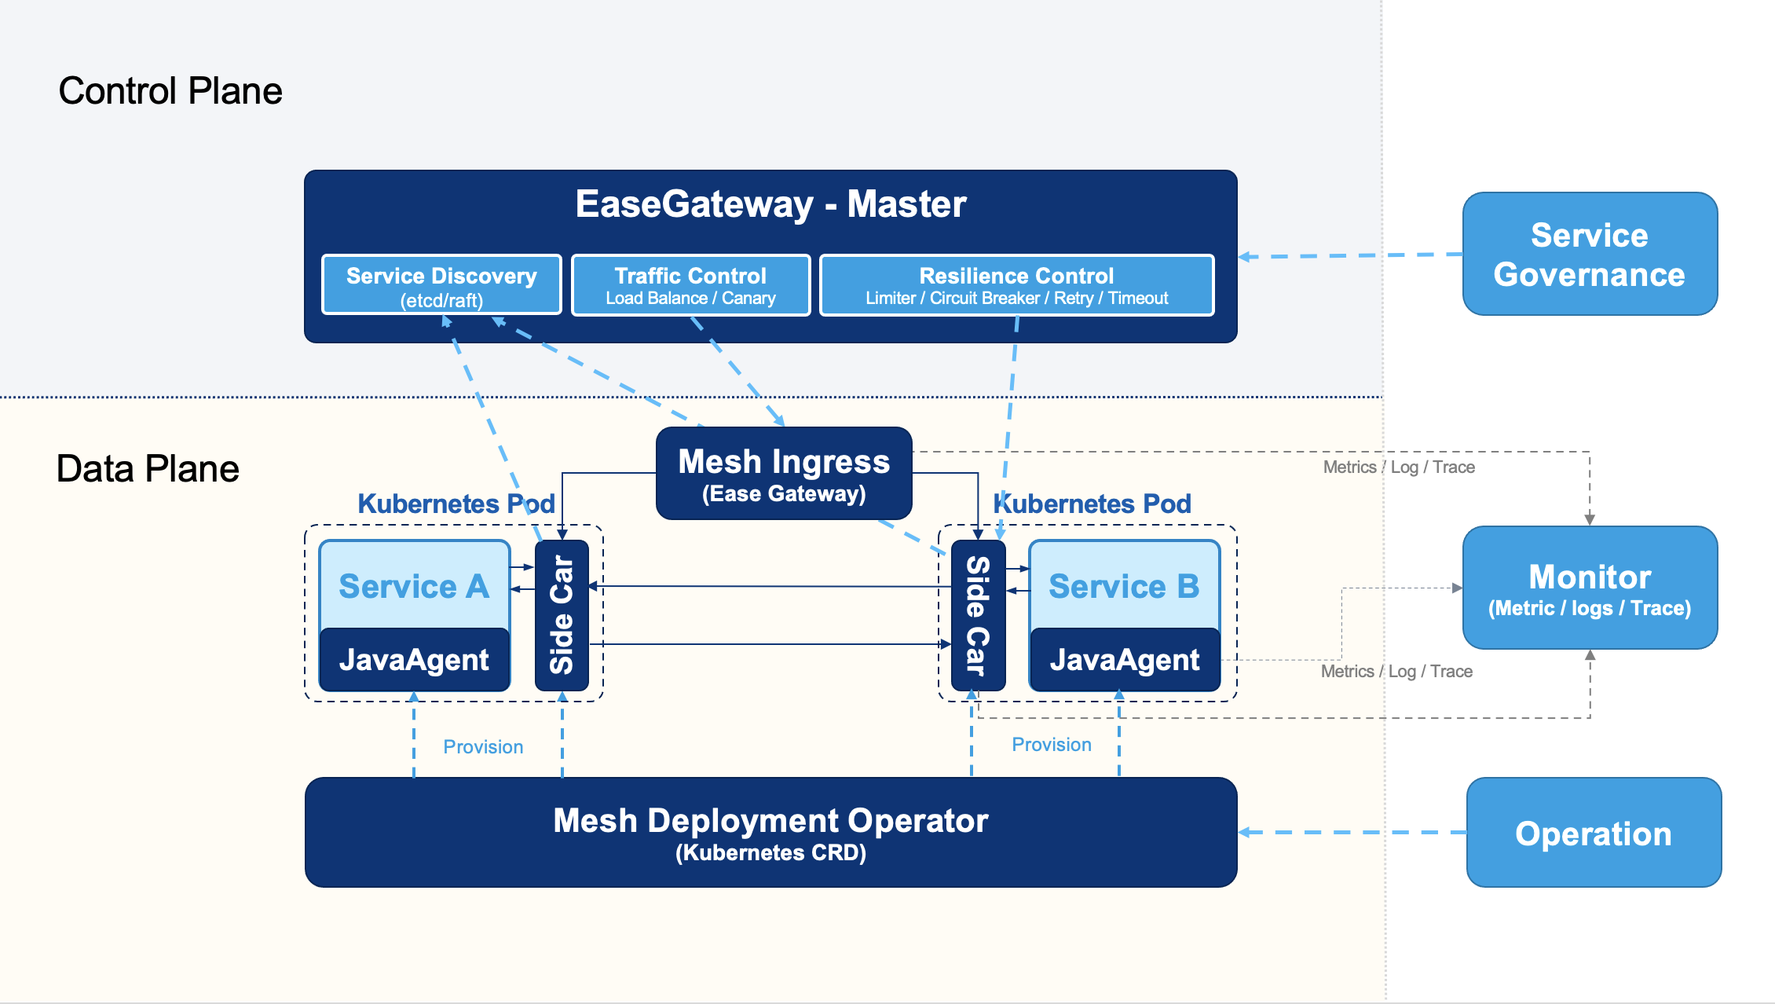
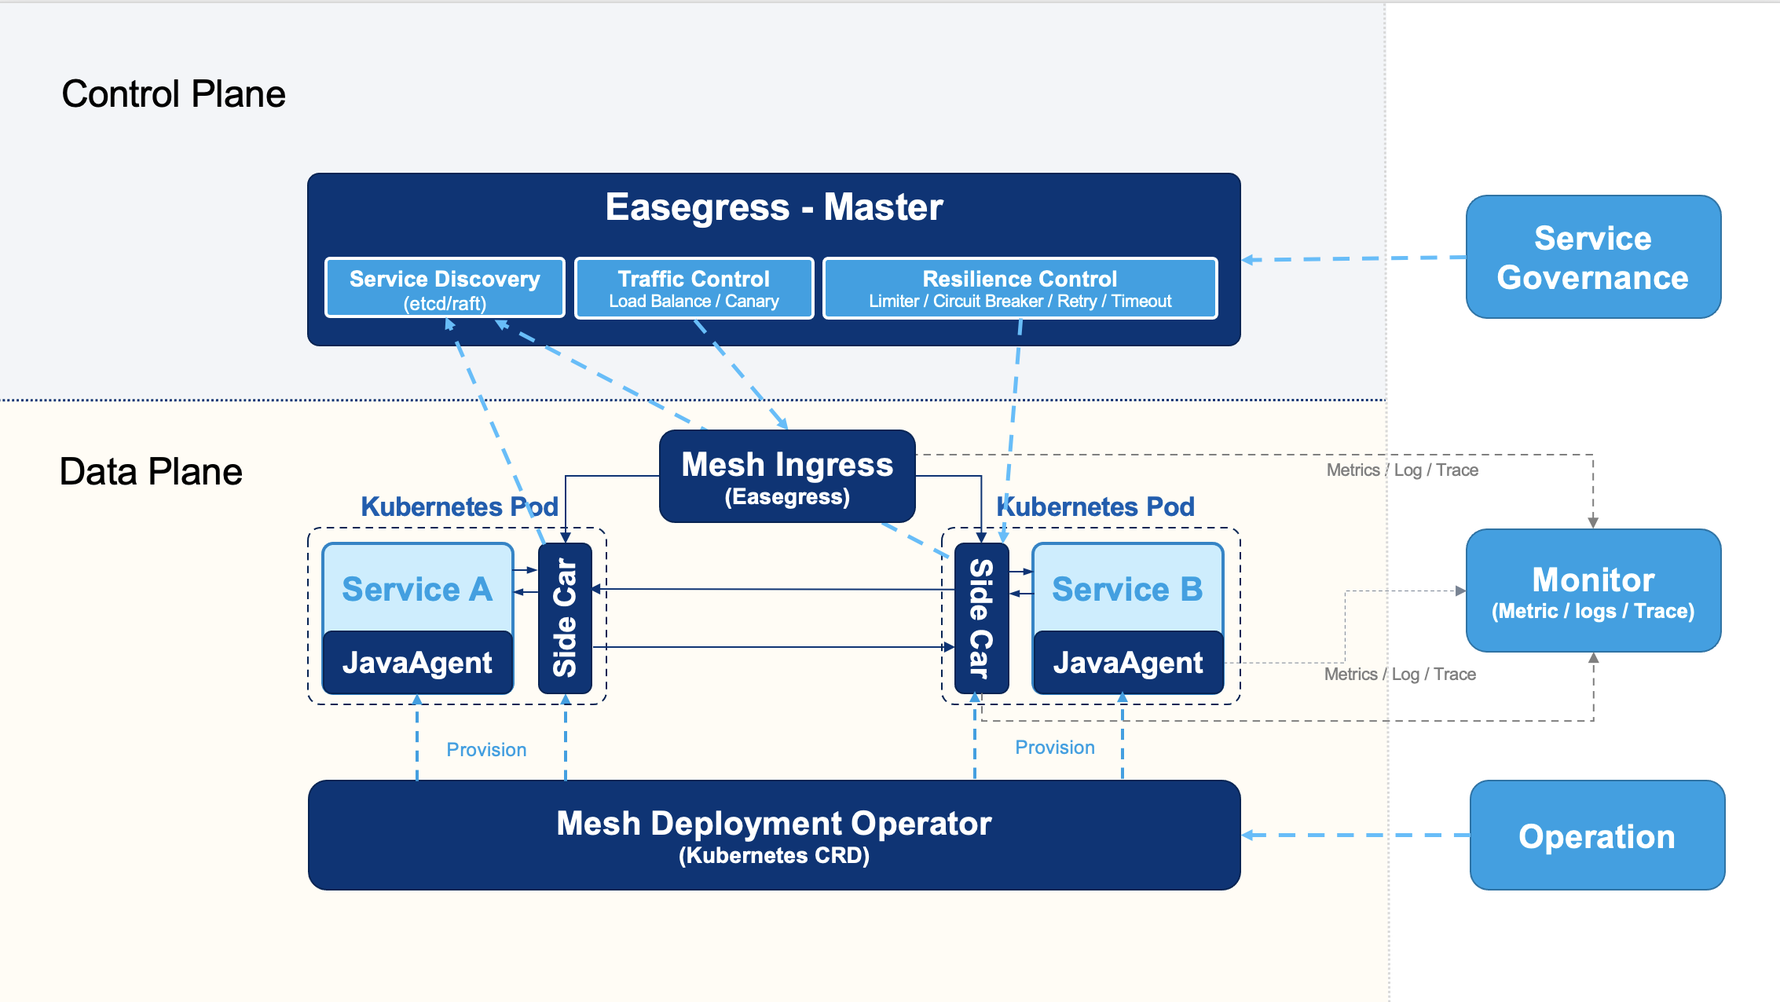
[doc] update EaseGateway to Easegress (#20)

diff --git a/docs/user_manual.md b/docs/user_manual.md
@@ -4,23 +4,23 @@
 #### 1.1 Architecture
 * The EaseMesh architecture is divided into two components. There are Control plane and Data plane. 
 * The Control Plane's responsibility is to manage and monitor all services inside mesh, and accept user's declaring specs through CLT or console. 
-* The Data Plane is composed by the Sidecar and JavaAgent in every deployed service Kubernetes Pod. They combined together to host traffic and gather the produced metrics/logs/tracings transparently from user's business service. The EaseMesh accepts out-side-mesh traffic by providing an Mesh-ingress which is an EaseGateway Node too. 
+* The Data Plane is composed by the Sidecar and JavaAgent in every deployed service Kubernetes Pod. They combined together to host traffic and gather the produced metrics/logs/tracings transparently from user's business service. The EaseMesh accepts out-side-mesh traffic by providing an Mesh-ingress which is an Easegress Node too. 
 * The EaseMesh runs above Kubernetes which is the most popular and powerful orchestration platform currently, so that it can focus on handling Service Mesh about features. 
 
 * ![The architecture diagram](../imgs/architecture.png)
 
 #### 1.2 Reply components
-* [The EaseGateway](https://github.com/megaease/easegateway). It's the all-rounder gateway system to have built-in distributed storage, traffic scheduling, high performance and observability. 
+* [The Easegress](https://github.com/megaease/easegress). It's the all-rounder gateway system to have built-in distributed storage, traffic scheduling, high performance and observability. 
 * [The EaseAgent](https://github.com/megaease/easeagent). It's an APM tool under the Java system, used in a distributed system developed by Java. It provides cross-service call chain tracking and performance information collection for distributed systems.
 * [The EaseMonitor](https://github.com/megaease/easeservice-mgmt-monitor).  It's the monitor component of the service governance. It supports dashboard and plane config data, queries and aggregates multiple types metrics data, queries service trace aggregation and topology analysis. 
   
 #### 1.3 Control Plane 
-1. In order to provide high-available ServiceMesh Control Plane in distributed environment, it requires odd numbers of EaseGateway nodes to form a cluster. The user can deliver their service mesh requirements and obtain running status and information inside the mesh by using RESTful-API or CLI through the Control Plane.
-2. Each EaseGateway nodes synchronize configuration to achieve final-consistency with the help of RAFT algorithm. 
-3. Every EaseGateway nodes run an MeshController for mesh-related logic. 
+1. In order to provide high-available ServiceMesh Control Plane in distributed environment, it requires odd numbers of Easegress nodes to form a cluster. The user can deliver their service mesh requirements and obtain running status and information inside the mesh by using RESTful-API or CLI through the Control Plane.
+2. Each Easegress nodes synchronize configuration to achieve final-consistency with the help of RAFT algorithm. 
+3. Every Easegress nodes run an MeshController for mesh-related logic. 
 
 #### 1.4 Data plane
-1. The Sidecar, is also an EaseGateway node in every service's Pod. It stands by the user's business service which is implemented with Spring-cloud framework. The Sidecar watches the service's specification modifications and applies them locally. The user's business service will accept Ingress traffic and deliver Egress traffic through its Sidecar.  
+1. The Sidecar, is also an Easegress node in every service's Pod. It stands by the user's business service which is implemented with Spring-cloud framework. The Sidecar watches the service's specification modifications and applies them locally. The user's business service will accept Ingress traffic and deliver Egress traffic through its Sidecar.  
 2. The JavaAgent, is a no invasion, service based view and high performance solution to enhance service governance's observability features in Java domain. It collects `JDBC`,`HTTP Servlet`, `HTTP filter`, Spring Boot 2.2.x: `WebClient 、 RestTemplate、FeignClient`, RabbitMQ and Jedis' metrics. It also supports collecting access-log and tracing recording.
 
 #### 1.5 Kubernetes Deployment
@@ -42,10 +42,10 @@ You can install the EaseMesh using the following command:
 ```bash
 $ cd easemesh/install
 $ bin/egctl mesh install
-EaseGateway control plane deploy success. Waiting startup...
-EaseGateway control plane startup success.
+Easegress control plane deploy success. Waiting startup...
+Easegress control plane startup success.
 Starting mesh controller success.
-EaseGateway Ingress deploy success.
+Easegress Ingress deploy success.
 EaseMesh Operator deploy success.
 Done.
 
@@ -71,19 +71,19 @@ Examples:
 egctl mesh install <args>
 
 Flags:
-      --easegateway-control-plane-replicas int    (default 3)
-      --easegateway-image string                  (default "megaease/easegateway:latest")
-      --easegateway-ingress-replicas int          (default 3)
+      --easegress-control-plane-replicas int    (default 3)
+      --easegress-image string                  (default "megaease/easegress:latest")
+      --easegress-ingress-replicas int          (default 3)
       --easemesh-operator-image string            (default "megaease/easemesh:latest")
       --easemesh-operator-replicas int            (default 3)
       --eg-admin-port int                         (default 2381)
       --eg-client-port int                        (default 2379)
-      --eg-control-plane-pv-capacity int         The capacity of the PersistentVolume for easegateway control plane storage, the unit is Gib. (default 3)
-      --eg-control-plane-pv-hostpath string      The host path of the PersistentVolume for easegateway control plane storage. (default "/opt/easegateway")
-      --eg-control-plane-pv-name string          The name of PersistentVolume for easegateway control plane storage. (default "easegateway-control-plane-pv")
+      --eg-control-plane-pv-capacity int         The capacity of the PersistentVolume for easegress control plane storage, the unit is Gib. (default 3)
+      --eg-control-plane-pv-hostpath string      The host path of the PersistentVolume for easegress control plane storage. (default "/opt/easegress")
+      --eg-control-plane-pv-name string          The name of PersistentVolume for easegress control plane storage. (default "easegress-control-plane-pv")
       --eg-peer-port int                          (default 2380)
       --eg-service-admin-port int                 (default 2381)
-      --eg-service-name string                    (default "easegateway-public")
+      --eg-service-name string                    (default "easegress-public")
       --eg-service-peer-port int                  (default 2380)
   -f, --file string                              A yaml file specifying the install params.
       --heartbeat-interval int                    (default 5)
@@ -94,38 +94,38 @@ Flags:
 
 Global Flags:
   -o, --output string   Output format(json, yaml) (default "yaml")
-      --server string   The address of the EaseGateway endpoint (default "localhost:2381")
+      --server string   The address of the Easegress endpoint (default "localhost:2381")
 
 ```
 - Parameters Description 
 
-| ParameterName                     | type   | description                                                                            |
-| -------------------------------- | ------ | ------------------------------------------------------------------------------------------- |
-| image-registry-url                 | string | Docker Image registry address, EaseMesh use it to pull EaseGateway and EaseMeshOperator Image. You can replace it with your private registry. Default: ``docker.io``.|
-| easegateway-image                  | string | The EaseGateway Image Name. Default: ``megaease/easegateway:latest``.                                      |
-| easemesh-operator-image            | string | The EaseMeshOperator Image. Default: ``megaease/easemesh:latest``.                                         |
-| mesh-namespace                     | string | The Kubernetes Namespace for deployment of EaseMesh. Default: ``easemesh``.                                |
-| easegateway-control-plane-replicas | int    | The replicas of EaseGateway Control Plane's statefulset. Default: ``3``.                                   |
-| easegateway-ingress-replicas       | int    | The replicas of EaseGateway Ingress's deployment. Default: ``easemesh``.                                   |
-| easemesh-operator-replicas         | int    | The replicas of EaseMesh Operator's deployment.  Default: ``easemesh``.                                    |
-| eg-client-port                     | int    | Port of EaseGateway Control Plane listen on for client traffic. Default: ``2379``.                         |
-| eg-peer-port                       | int    | Port of EaseGateway Control Plane listen on for peer traffic. Default: ``2380``.                           |
-| eg-admin-port                      | int    | Port of EaseGateway Control Plane listen on for admin traffic. Default: ``2381``.                          |
-| eg-service-name                    | string | The Kubernetes service for EaseGateway control plane pods. Default: ``easegateway-public``                 |                                                     
-| eg-service-client-port             | int    | Port of the service for pods's client port. Default: ``2379``.                                             |                                                                         |
-| eg-service-peer-port               | int    | Port of the service for pods's peer port. Default: ``2380``.                                               |                                                                    |
-| eg-service-admin-port              | int    | Port of the service for pods's admin port. Default: ``2381``.                                              |                                                                    |
-| eg-control-plane-pv-name           | string | The PersistentVolume for EaseGateway Control Plane storage. Default: ``easegateway-control-plane-pv``.     |
-| eg-control-plane-pv-hostpath       | string | The path on host for EaseGateway Control Plane's PersistentVolume storage. Default: ``/opt/easegateway``.  |
-| eg-control-plane-pv-capacity       | int    | The capacity of EaseGateway Control Plane's PersistentVolume, the unit is Gib.  Default: ``3``.            |
-| registry-type                      | string | The registry type for application service registry. Default: ``eureka``                                    |
-| heartbeat-interval                 | int    | The interval for checking service heartbeat, the unit is second. Default: ``5``                            |  
-| file                               | string | The config file for above parameters.
+| ParameterName                    | type   | description                                                                                                                                                         |
+| -------------------------------- | ------ | ------------------------------------------------------------------------------------------------------------------------------------------------------------------- |
+| image-registry-url               | string | Docker Image registry address, EaseMesh use it to pull Easegress and EaseMeshOperator Image. You can replace it with your private registry. Default: ``docker.io``. |
+| easegress-image                  | string | The Easegress Image Name. Default: ``megaease/easegress:latest``.                                                                                                   |
+| easemesh-operator-image          | string | The EaseMeshOperator Image. Default: ``megaease/easemesh:latest``.                                                                                                  |
+| mesh-namespace                   | string | The Kubernetes Namespace for deployment of EaseMesh. Default: ``easemesh``.                                                                                         |
+| easegress-control-plane-replicas | int    | The replicas of Easegress Control Plane's statefulset. Default: ``3``.                                                                                              |
+| easegress-ingress-replicas       | int    | The replicas of Easegress Ingress's deployment. Default: ``easemesh``.                                                                                              |
+| easemesh-operator-replicas       | int    | The replicas of EaseMesh Operator's deployment.  Default: ``easemesh``.                                                                                             |
+| eg-client-port                   | int    | Port of Easegress Control Plane listen on for client traffic. Default: ``2379``.                                                                                    |
+| eg-peer-port                     | int    | Port of Easegress Control Plane listen on for peer traffic. Default: ``2380``.                                                                                      |
+| eg-admin-port                    | int    | Port of Easegress Control Plane listen on for admin traffic. Default: ``2381``.                                                                                     |
+| eg-service-name                  | string | The Kubernetes service for Easegress control plane pods. Default: ``easegress-public``                                                                              |
+| eg-service-client-port           | int    | Port of the service for pods's client port. Default: ``2379``.                                                                                                      |  |
+| eg-service-peer-port             | int    | Port of the service for pods's peer port. Default: ``2380``.                                                                                                        |  |
+| eg-service-admin-port            | int    | Port of the service for pods's admin port. Default: ``2381``.                                                                                                       |  |
+| eg-control-plane-pv-name         | string | The PersistentVolume for Easegress Control Plane storage. Default: ``easegress-control-plane-pv``.                                                                  |
+| eg-control-plane-pv-hostpath     | string | The path on host for Easegress Control Plane's PersistentVolume storage. Default: ``/opt/easegress``.                                                               |
+| eg-control-plane-pv-capacity     | int    | The capacity of Easegress Control Plane's PersistentVolume, the unit is Gib.  Default: ``3``.                                                                       |
+| registry-type                    | string | The registry type for application service registry. Default: ``eureka``                                                                                             |
+| heartbeat-interval               | int    | The interval for checking service heartbeat, the unit is second. Default: ``5``                                                                                     |
+| file                             | string | The config file for above parameters.                                                                                                                               |
     
 
 ##### 1.6.3 Check what’s installed      
-The ``egctl mesh install`` command deploys the ``meshdeployments.mesh.megaease.com `` of CRD, the EaseGateway ControlPlane of StatefulSet and the PersistentVolume required for its storage, 
-EaseGatewayIngress and EaseMeshOperator of Deployment and required ConfigMap, Service, etc.
+The ``egctl mesh install`` command deploys the ``meshdeployments.mesh.megaease.com `` of CRD, the Easegress ControlPlane of StatefulSet and the PersistentVolume required for its storage, 
+EasegressIngress and EaseMeshOperator of Deployment and required ConfigMap, Service, etc.
 
 You can check all resources using following command:
 
@@ -138,40 +138,40 @@ easemesh          Active   33s
 
 $ kubectl get statefulsets.apps -n easemesh
 NAME                        READY   AGE
-easegateway-control-plane   3/3     33s
+easegress-control-plane   3/3     33s
 
 $ kubectl get deployments.apps -n easemesh
 NAME                  READY   UP-TO-DATE   AVAILABLE   AGE
-easegateway-ingress   3/3     3            3           33s
+easegress-ingress   3/3     3            3           33s
 easemesh-operator     3/3     3            3           33s
 mesh-operator-hahha   3/3     3            3           33s
 
 $ kubectl get pv
 NAME                           CAPACITY   ACCESS MODES   RECLAIM POLICY   STATUS   CLAIM                                                               STORAGECLASS   REASON   AGE
-easegateway-control-plane-pv   3          RWO            Retain           Bound    easemesh/easegateway-control-plane-pv-easegateway-control-plane-0                           44h
+easegress-control-plane-pv   3          RWO            Retain           Bound    easemesh/easegress-control-plane-pv-easegress-control-plane-0                           44h
 
 $ kubectl get pods -n easemesh
 NAME                                   READY   STATUS    RESTARTS   AGE
-easegateway-control-plane-0            1/1     Running   0          33s
-easegateway-control-plane-1            1/1     Running   0          33s
-easegateway-control-plane-2            1/1     Running   0          33s
-easegateway-ingress-847b7bddbb-9q7nf   1/1     Running   0          33s
-easegateway-ingress-847b7bddbb-px9n7   1/1     Running   0          33s
-easegateway-ingress-847b7bddbb-wj8ss   1/1     Running   0          33s
+easegress-control-plane-0            1/1     Running   0          33s
+easegress-control-plane-1            1/1     Running   0          33s
+easegress-control-plane-2            1/1     Running   0          33s
+easegress-ingress-847b7bddbb-9q7nf   1/1     Running   0          33s
+easegress-ingress-847b7bddbb-px9n7   1/1     Running   0          33s
+easegress-ingress-847b7bddbb-wj8ss   1/1     Running   0          33s
 easemesh-operator-5fd5d55f8f-6d5bj     2/2     Running   0          33s
 easemesh-operator-5fd5d55f8f-g89f9     2/2     Running   0          33s
 easemesh-operator-5fd5d55f8f-j6ksk     2/2     Running   0          33s
 
 $ kubectl get svc -n easemesh
 NAME                                               TYPE        CLUSTER-IP       EXTERNAL-IP   PORT(S)                      AGE
-easegateway-hs                                     ClusterIP   None             <none>        2381/TCP,2380/TCP,2379/TCP   33s
-easegateway-ingress                                NodePort    10.106.94.98     <none>        13010:30010/TCP              33s
-easegateway-public                                 ClusterIP   10.104.166.129   <none>        2381/TCP,2380/TCP,2379/TCP   33s
+easegress-hs                                     ClusterIP   None             <none>        2381/TCP,2380/TCP,2379/TCP   33s
+easegress-ingress                                NodePort    10.106.94.98     <none>        13010:30010/TCP              33s
+easegress-public                                 ClusterIP   10.104.166.129   <none>        2381/TCP,2380/TCP,2379/TCP   33s
 mesh-operator-controller-manager-metrics-service   ClusterIP   10.97.62.250     <none>        8443/TCP                     33s
 ```
 
-##### 1.6.4 Access EaseGateway Control Plane
-You can use the ``ClusterIP:AdminPort`` of easegateway-public service to access EaseGateway Control Plane by ``egctl``, like following command:
+##### 1.6.4 Access Easegress Control Plane
+You can use the ``ClusterIP:AdminPort`` of easegress-public service to access Easegress Control Plane by ``egctl``, like following command:
 
 ```bash
 # Query Objects

diff --git a/README.md b/README.md
@@ -1,5 +1,5 @@
 # EaseMesh
-A service mesh compatible with the Spring Cloud ecosystem. Using [EaseGateway](https://github.com/megaease/easegateway) as a sidecar for service management & [EaseAgent](https://github.com/megaease/easeagent) as a monitor for service observability.
+A service mesh compatible with the Spring Cloud ecosystem. Using [Easegress](https://github.com/megaease/easegress) as a sidecar for service management & [EaseAgent](https://github.com/megaease/easeagent) as a monitor for service observability.
 
 - [EaseMesh](#easemesh)
   - [1. Purposes](#1-purposes)
@@ -48,7 +48,7 @@ Shortly, **the EashMesh leverages the Kubernetes sidecar and Java Agent techniqu
 
 ## 5. Dependent Projects
 1. [MegaEase EaseAgent](https://github.com/megaease/easeagent) 
-2. [MegaEase EaseGateway](https://github.com/megaease/easegateway) 
+2. [MegaEase Easegress](https://github.com/megaease/easegress) 
 
 ## 6. Quick Start
 ### 6.1 Environment Requirement 
@@ -69,7 +69,7 @@ Shortly, **the EashMesh leverages the Kubernetes sidecar and Java Agent techniqu
     $ cd ./install
     $ ./egctl mesh install
     ```
-    **Note:** EaseMesh installation needs [EaseGateway](https://github.com/megaease/easegateway) and [EaseAgent](https://github.com/megaease/easeagent)'s image. They are provided in Docker Hub. If you want to get them from your private image repository, run `./egctl mesh install --image-registry-url ${your_image-registry-url}` instead. 
+    **Note:** EaseMesh installation needs [easegress](https://github.com/megaease/easegress) and [EaseAgent](https://github.com/megaease/easeagent)'s image. They are provided in Docker Hub. If you want to get them from your private image repository, run `./egctl mesh install --image-registry-url ${your_image-registry-url}` instead. 
 
 2. Checking control plane and ingress gateway's status 
 
@@ -78,17 +78,17 @@ Shortly, **the EashMesh leverages the Kubernetes sidecar and Java Agent techniqu
     NAME              READY  STATUS  RESTARTS  AGE
     mesh-ingress-${random-suffix}  1/1   Running  0     18h
 
-    $ kubectl get pod easegateway-cluster-0-${random-suffix}
+    $ kubectl get pod easegress-cluster-0-${random-suffix}
     NAME              READY  STATUS  RESTARTS  AGE
-    easegateway-cluster-0-${random-suffix}  1/1   Running  0     18h
+    easegress-cluster-0-${random-suffix}  1/1   Running  0     18h
 
-    $ kubectl get pod easegateway-cluster-1-${random-suffix}
+    $ kubectl get pod easegress-cluster-1-${random-suffix}
     NAME              READY  STATUS  RESTARTS  AGE
-    easegateway-cluster-1-${random-suffix}  1/1   Running  0     18h
+    easegress-cluster-1-${random-suffix}  1/1   Running  0     18h
 
-    $ kubectl get pod easegateway-cluster-2-${random-suffix}
+    $ kubectl get pod easegress-cluster-2-${random-suffix}
     NAME              READY  STATUS  RESTARTS  AGE
-    easegateway-cluster-2-${random-suffix}  1/1   Running  0     18h
+    easegress-cluster-2-${random-suffix}  1/1   Running  0     18h
     ```
 
 
